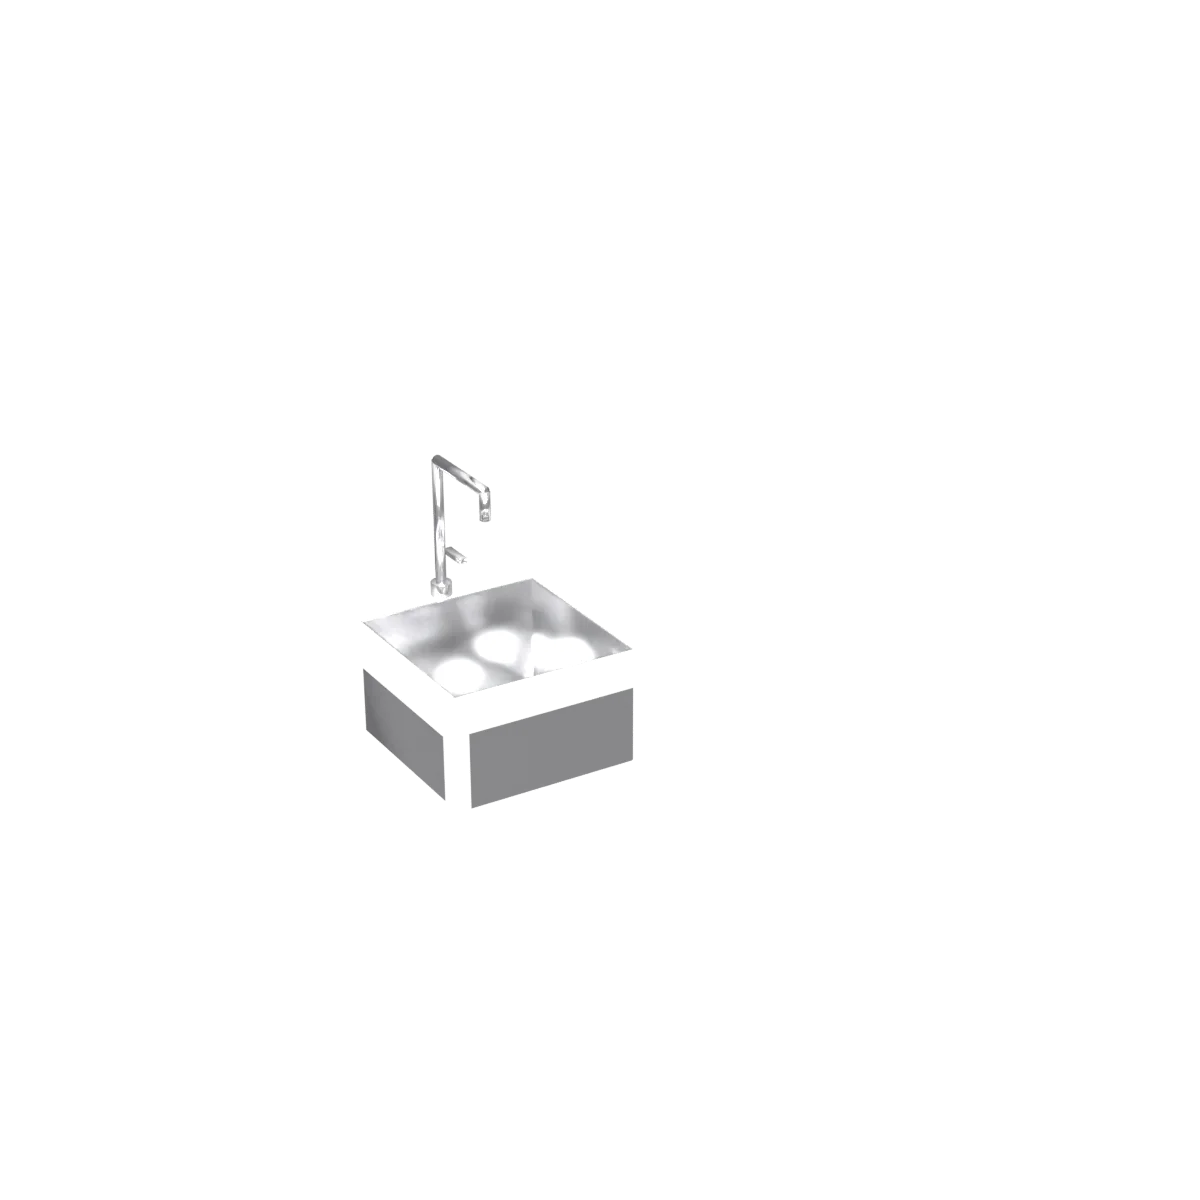
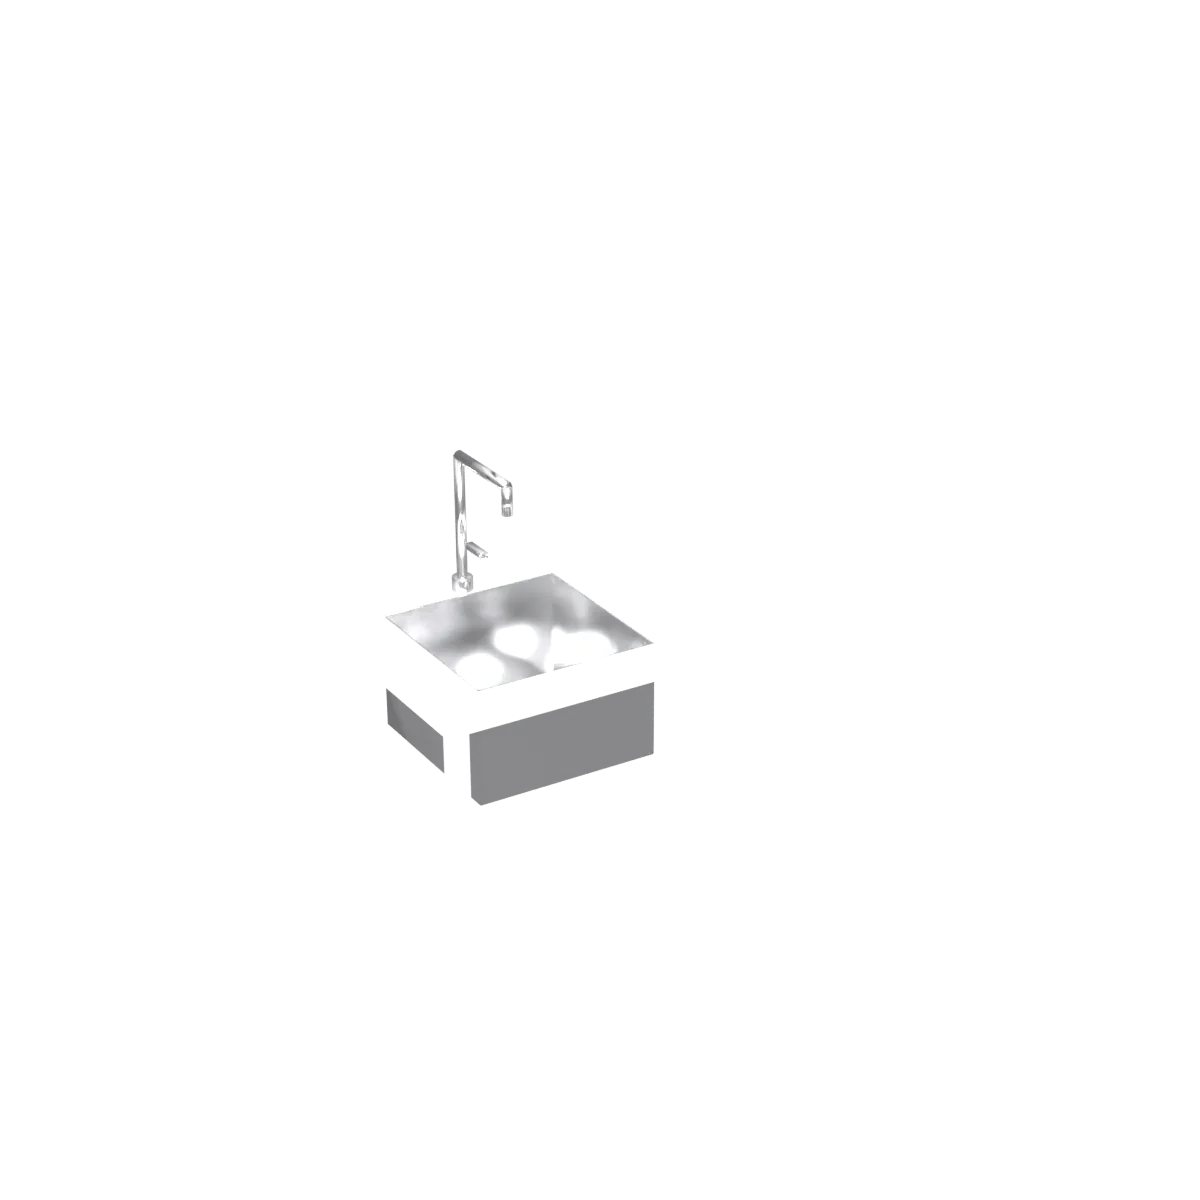
/quote: sink and chute moved in from the ends so the overhead-shelf posts stand clear of them
Claude-Session: https://claude.ai/code/session_01SuADwQBP7Jm1zo43bAQdQh

Changed region(s): [[0.2775, 0.37, 0.555, 0.6783]]

diff --git a/public/quote.html b/public/quote.html
@@ -1945,7 +1945,7 @@ window.addEventListener('resize', () => { if (!$('viewProd').hidden && pState.p)
    The page stacks the layers for the build the customer picks. Files: /images/worktable/layers/<band>/<layer>.webp */
 const BANDS = {"1050": {"res": 1200, "FL": [467.4, 1078.3], "FR": [848.9, 940.0], "BL": [355.0, 957.2], "TFR": [893.3, 597.6], "TFL": [446.5, 722.0], "topY": 378.8, "floorY": 1094.9, "rackY": 108}};
 const BAND_KEYS = Object.keys(BANDS).map(Number).sort((x, y) => x - y);
-const LVER = 'bce90188';   /* change whenever the layer pictures are re-rendered: images are cached for 30 days */
+const LVER = '2a73ae43';   /* change whenever the layer pictures are re-rendered: images are cached for 30 days */
 const LIMG = (b, n) => '/images/worktable/layers/' + b + '/' + n + '.webp?v=' + LVER;
 const DIMG = (n) => '/images/worktable/' + n + '.webp';
 const DETAILS = [];   /* close-ups removed at the owner's request: only the built table is shown */
